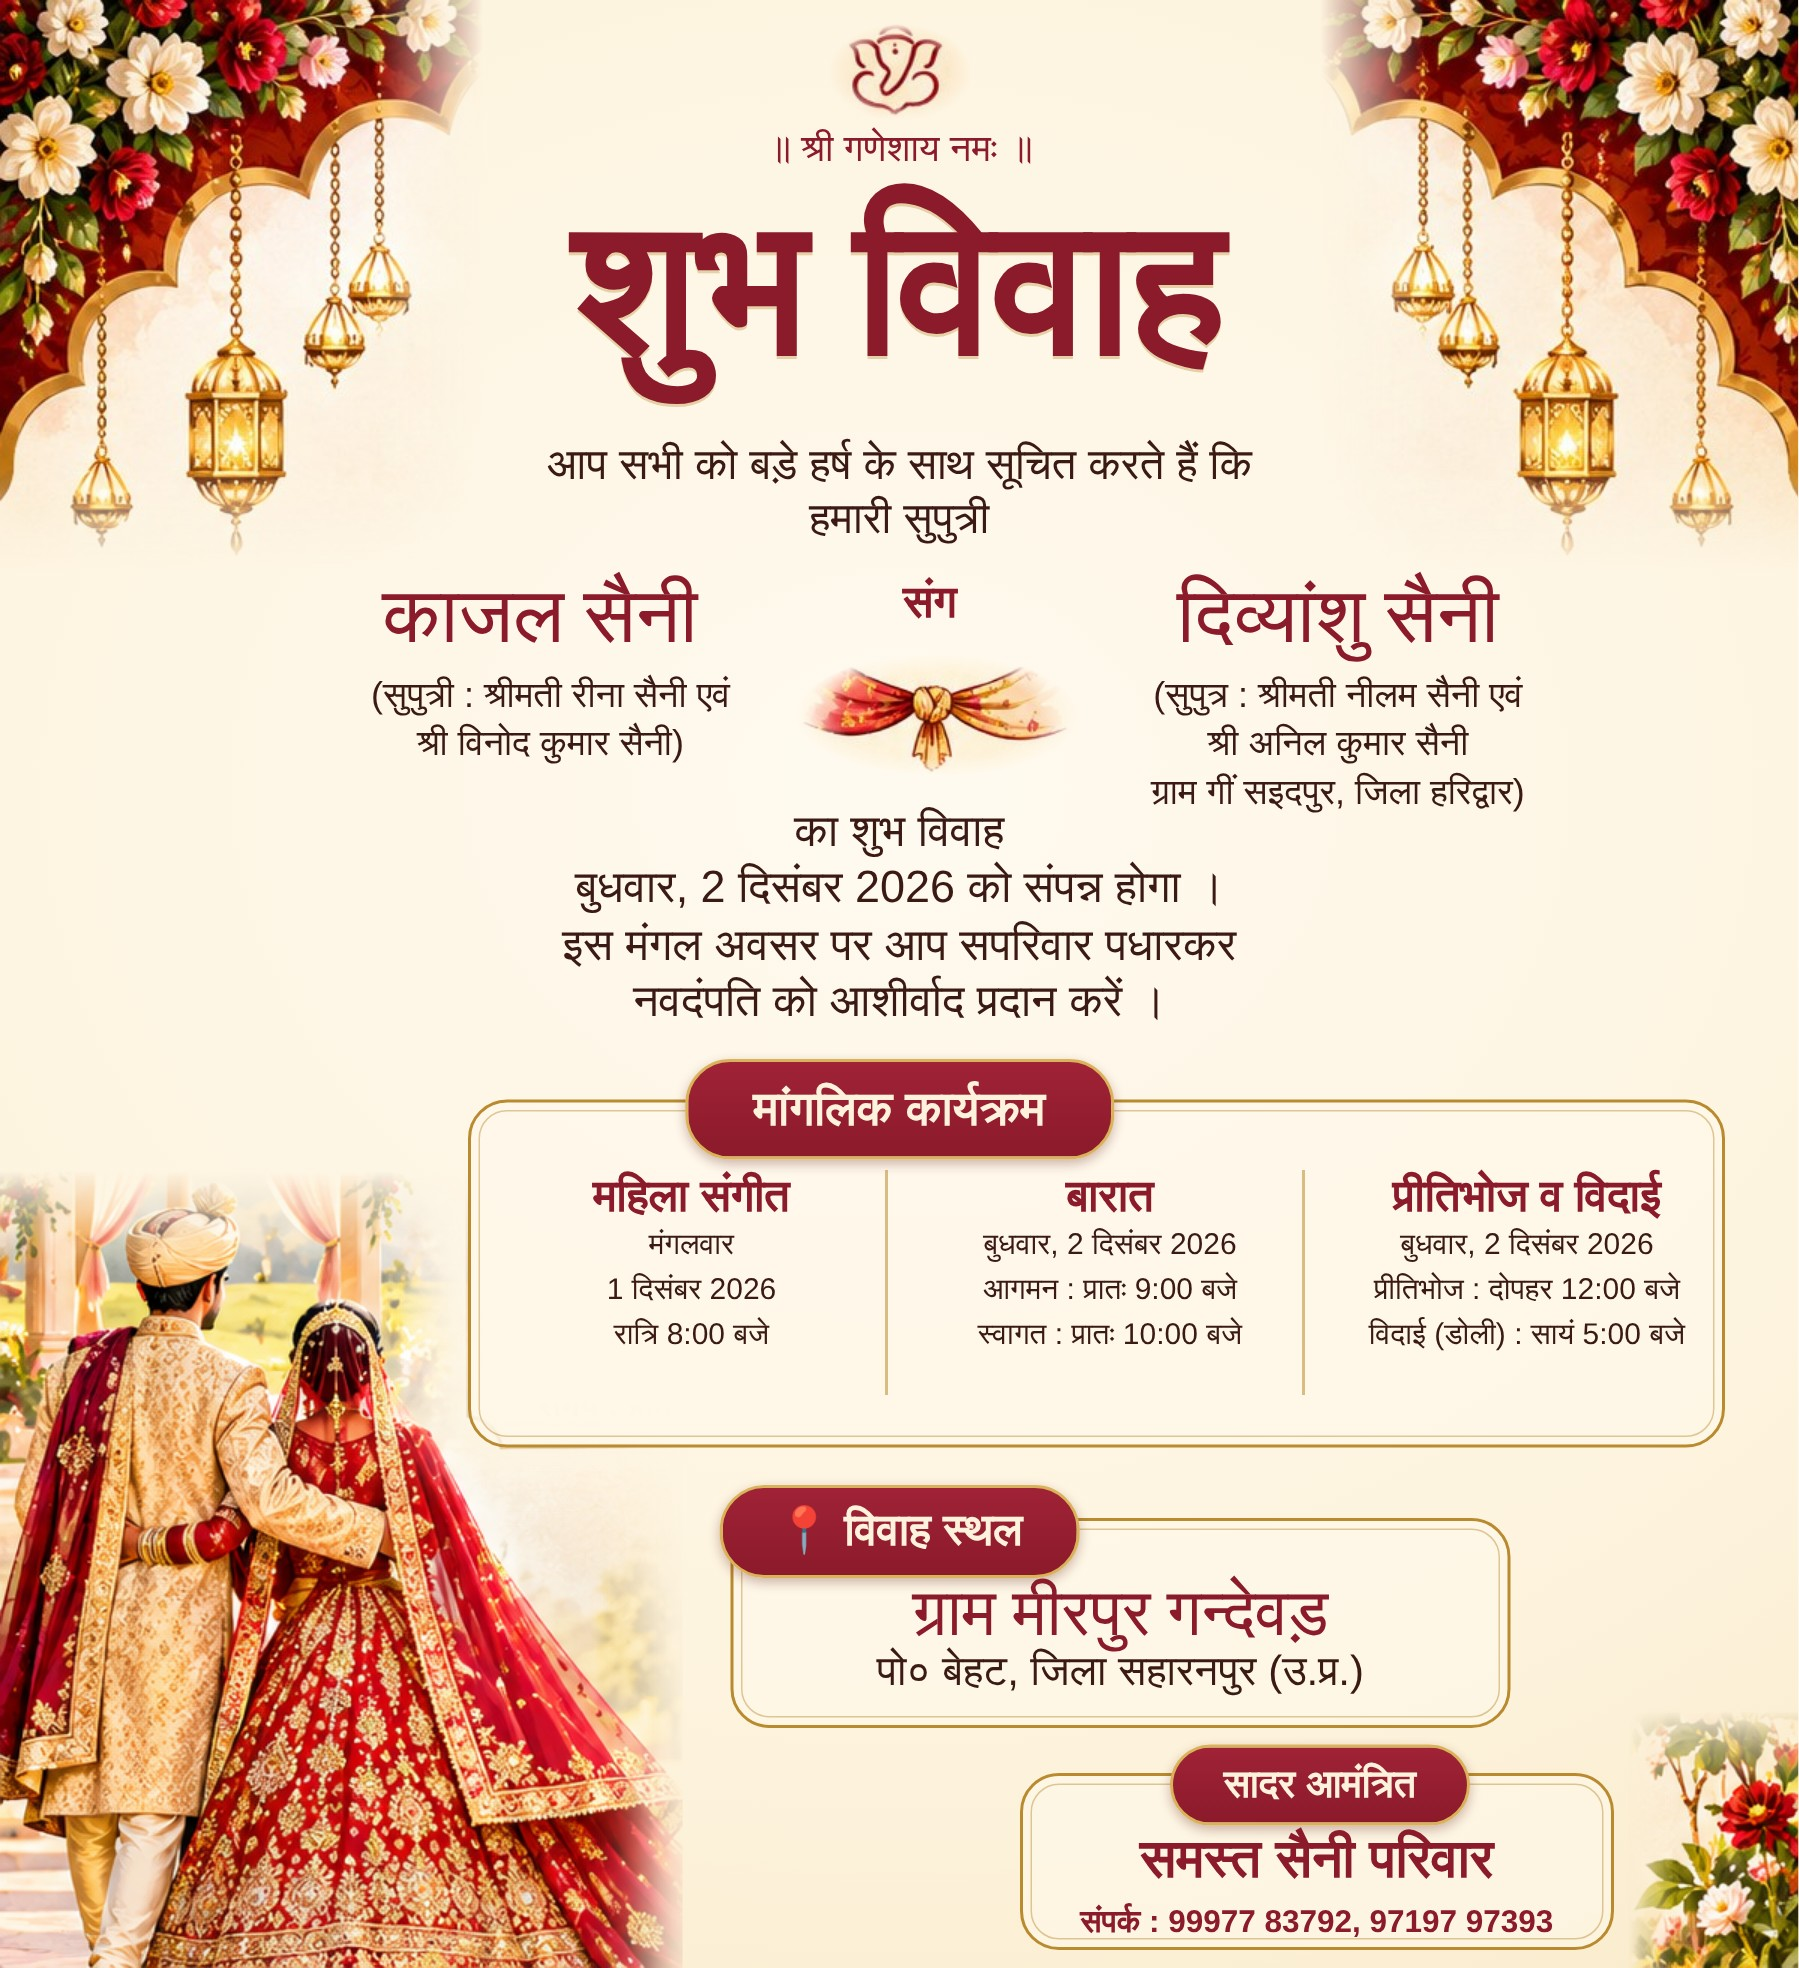
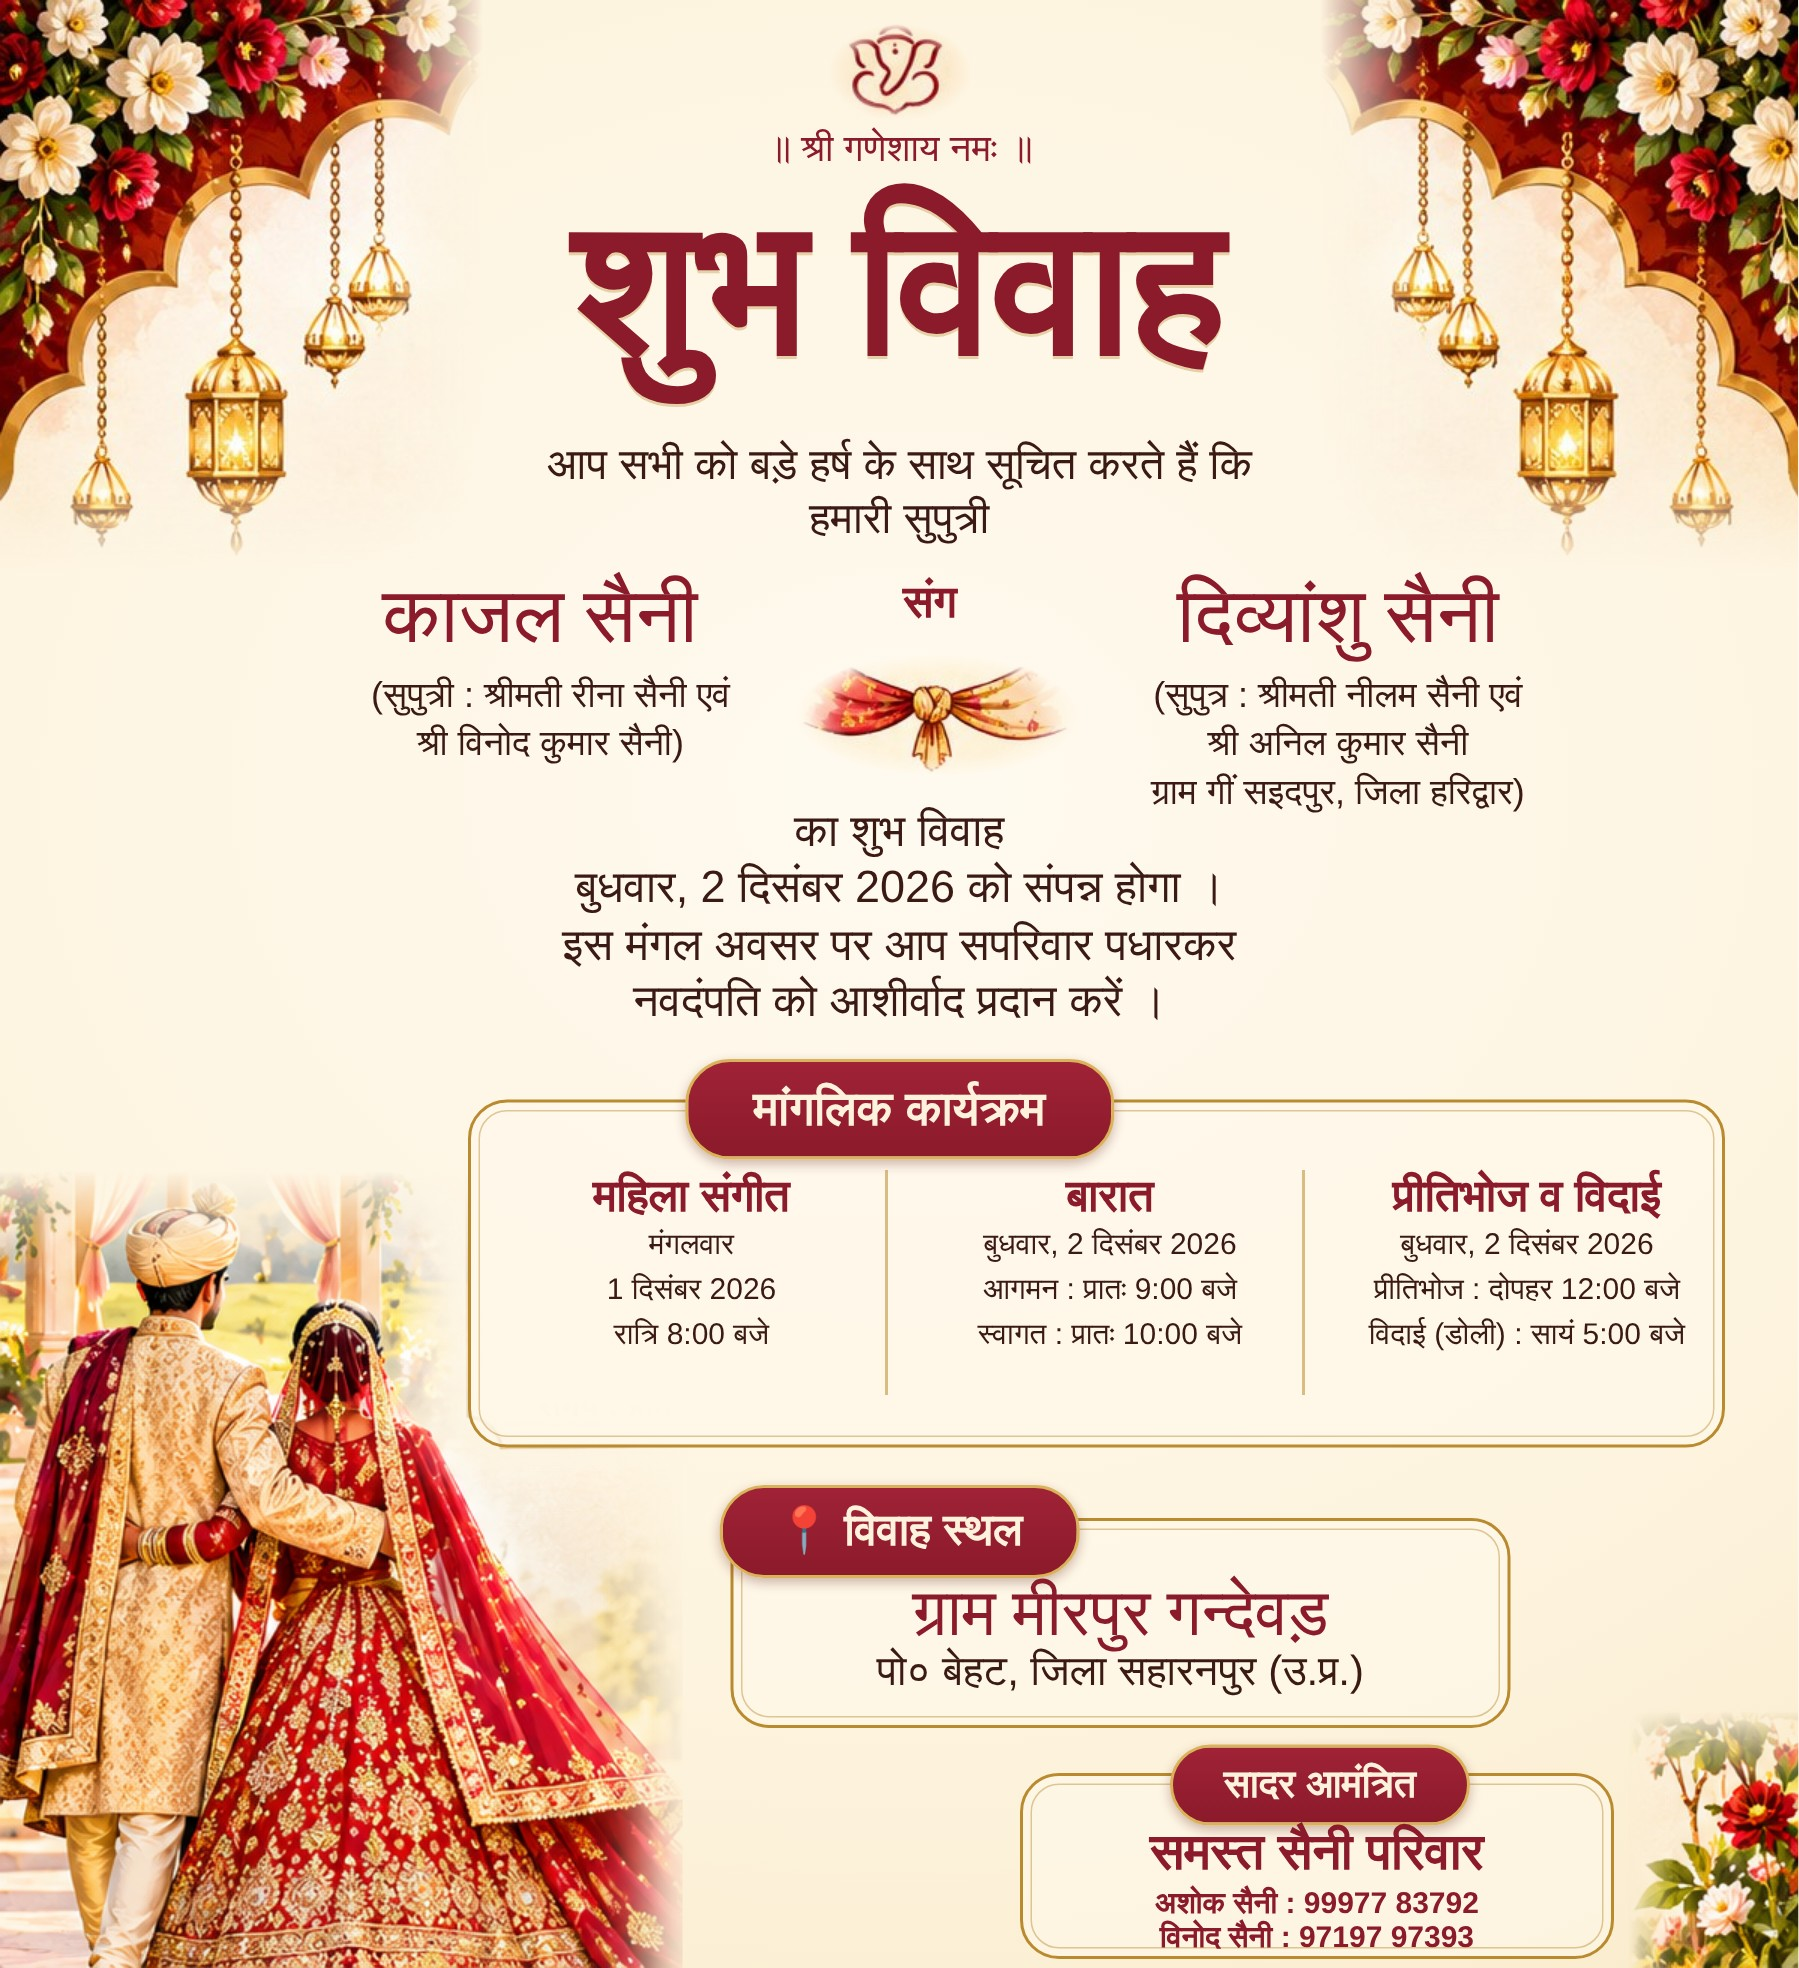
Kajal card: contact names
Claude-Session: https://claude.ai/code/session_01LzXEQbmdx6s1RpncFLF2Ah

Changed region(s): [[0.5603, 0.9299, 0.9027, 1.0]]

diff --git a/public/kajal-divyanshu/index.html b/public/kajal-divyanshu/index.html
@@ -56,9 +56,9 @@ body{background:#efe0c0;font-family:Hind,sans-serif;color:var(--ink);padding:14p
 .vn{left:calc(var(--p)*487);width:calc(var(--p)*520);top:calc(var(--p)*1050);text-align:center;font-family:'Rozha One',serif;font-size:calc(var(--p)*44);color:var(--wine)}
 .va{left:calc(var(--p)*487);width:calc(var(--p)*520);top:calc(var(--p)*1098);text-align:center;font-size:calc(var(--p)*28);font-weight:500}
 .ih{left:calc(var(--p)*880);top:calc(var(--p)*1163);font-size:calc(var(--p)*26);padding:calc(var(--p)*4) calc(var(--p)*34)}
-.ibox{left:calc(var(--p)*680);width:calc(var(--p)*396);top:calc(var(--p)*1182);height:calc(var(--p)*118)}
-.ct{left:calc(var(--p)*680);width:calc(var(--p)*396);top:calc(var(--p)*1270);text-align:center;font-weight:700;font-size:calc(var(--p)*21);color:var(--wine);white-space:nowrap}
-.in{left:calc(var(--p)*680);width:calc(var(--p)*396);top:calc(var(--p)*1218);text-align:center;font-weight:700;font-size:calc(var(--p)*36);color:var(--wine)}
+.ibox{left:calc(var(--p)*680);width:calc(var(--p)*396);top:calc(var(--p)*1182);height:calc(var(--p)*124)}
+.ct{left:calc(var(--p)*680);width:calc(var(--p)*396);top:calc(var(--p)*1258);text-align:center;font-weight:700;font-size:calc(var(--p)*20);line-height:1.15;color:var(--wine);white-space:nowrap}
+.in{left:calc(var(--p)*680);width:calc(var(--p)*396);top:calc(var(--p)*1216);text-align:center;font-weight:700;font-size:calc(var(--p)*34);color:var(--wine)}
 .ic{left:calc(var(--p)*680);width:calc(var(--p)*396);top:calc(var(--p)*1258);text-align:center;font-weight:600;font-size:calc(var(--p)*25)}
 .rv{opacity:0;transform:translateY(calc(var(--p)*18));animation:rv .9s cubic-bezier(.2,.7,.2,1) forwards;animation-delay:var(--d,0s)}
 .pill.rv{transform:translate(-50%,calc(var(--p)*18));animation-name:rvp}
@@ -200,14 +200,14 @@ html.embed .acts,html.embed .cta{display:none}
 
   <div class="box ibox rv" style="--d:4.3s"></div>
   <p class="pill ih rv" style="--d:4.3s">सादर आमंत्रित</p>
-  <p class="ct rv" style="--d:4.7s">संपर्क : 99977 83792, 97197 97393</p>
+  <p class="ct rv" style="--d:4.7s">अशोक सैनी : 99977 83792<br>विनोद सैनी : 97197 97393</p>
   <p class="in rv" style="--d:4.5s">समस्त सैनी परिवार</p>
 </div>
 
 <div class="acts">
   <a class="b" style="background:#1f6fd0;color:#fff" href="https://maps.app.goo.gl/bu2nddtKY3hRvM9U6" target="_blank" rel="noopener">&#128205; विवाह स्थल Google Maps पर देखें</a>
-  <a class="b" style="background:#2e8b57;color:#fff" href="tel:+919997783792">&#128222; कॉल करें : 99977 83792</a>
-  <a class="b" style="background:#2e8b57;color:#fff" href="tel:+919719797393">&#128222; कॉल करें : 97197 97393</a>
+  <a class="b" style="background:#2e8b57;color:#fff" href="tel:+919997783792">&#128222; अशोक सैनी : 99977 83792</a>
+  <a class="b" style="background:#2e8b57;color:#fff" href="tel:+919719797393">&#128222; विनोद सैनी : 97197 97393</a>
   <a class="b pdf" href="Wedding-Card-Kajal-Divyanshu.pdf" download="Wedding-Card-Kajal-Divyanshu.pdf"><svg viewBox="0 0 24 24" fill="none" stroke="currentColor" stroke-width="2" stroke-linecap="round" stroke-linejoin="round"><path d="M12 3v12m0 0-4-4m4 4 4-4M5 21h14"/></svg>PDF में फ़ोन में सेव करें</a>
   <a class="b img" href="Wedding-Card-Kajal-Divyanshu.jpg" download="Wedding-Card-Kajal-Divyanshu.jpg">फ़ोटो (JPG) सेव करें</a>
   <a class="b wa" id="wa" href="#" target="_blank" rel="noopener">WhatsApp पर भेजें</a>
